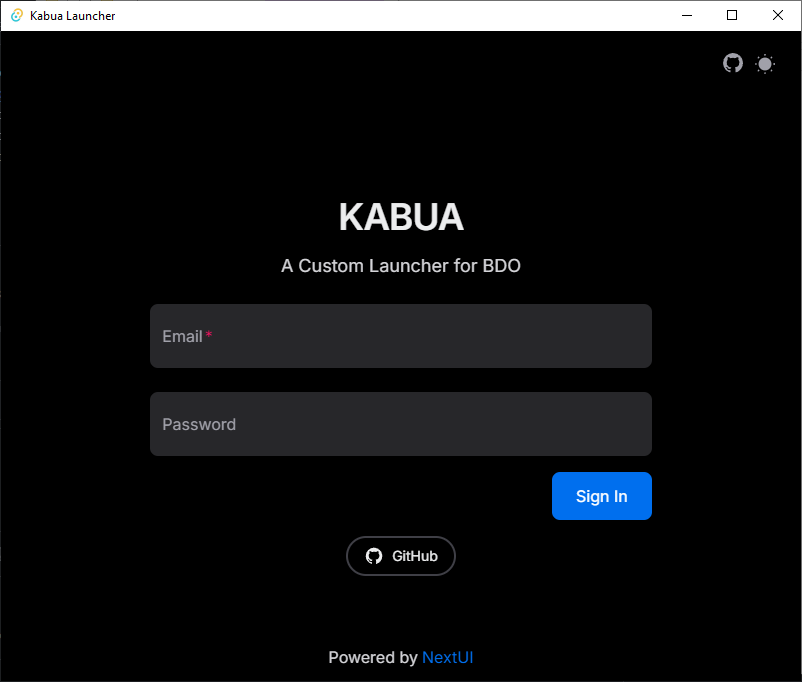
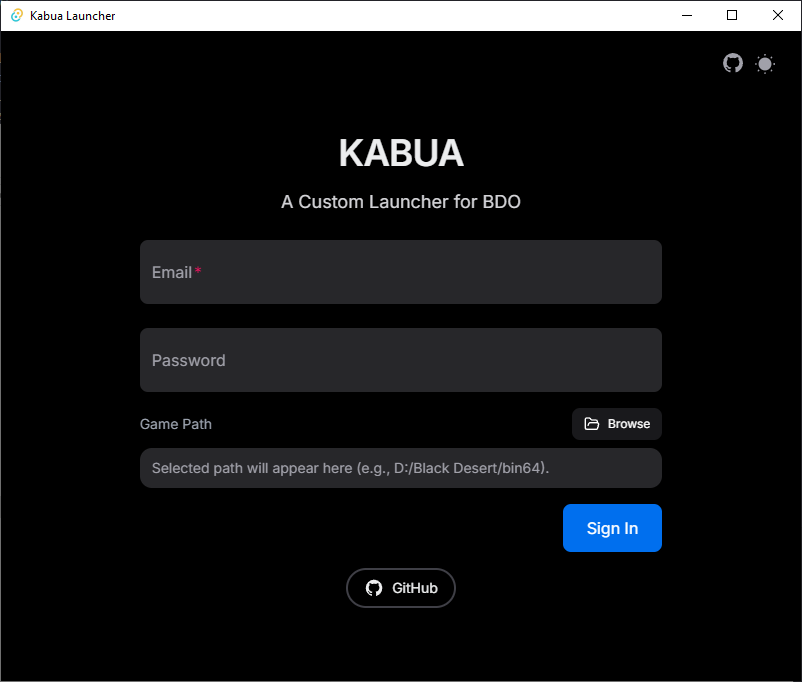
update layout and add game path browse

diff --git a/components/form.tsx b/components/form.tsx
@@ -2,6 +2,7 @@
 
 import { useState, useMemo } from "react";
 import { Button } from "@nextui-org/button";
+import { FolderOpen } from 'lucide-react'
 import {
   Modal,
   ModalBody,
@@ -60,6 +61,7 @@ export const LoginForm = () => {
   const [configExists, setConfigExists] = useState(false);
   const [loading, setLoading] = useState(false);
   const [errorMsg, setErrorMsg] = useState("");
+  const [gamePath, setGamePath] = useState("");
   const { isOpen, onOpen, onClose } = useDisclosure();
 
   const validateEmail = (value: string) =>
@@ -173,7 +175,6 @@ export const LoginForm = () => {
       const config_exists = await exists("config.json", {
         dir: BaseDirectory.Resource,
       });
-      console.log(config_exists)
       if (config_exists) {
         const game_config = await readTextFile("config.json", {
           dir: BaseDirectory.Resource,
@@ -183,19 +184,8 @@ export const LoginForm = () => {
         const game_path = js.game_path;
         console.log(game_config);
         return game_path;
-      } else {
-        const path = await open({ directory: true });
-        const game_config = {
-          game_path: path,
-        };
-        const write_config = await writeTextFile(
-          "config.json",
-          JSON.stringify(game_config, undefined, 4),
-          { dir: BaseDirectory.Resource }
-        );
-        return game_config.game_path;
-        // console.log(game_path)
       }
+      return null;
     } catch (error) {
       throw error;
     }
@@ -203,8 +193,12 @@ export const LoginForm = () => {
 
   const handleSubmit = async () => {
     try {
+      if (!gamePath) {
+        throw `File or path not found, try fixing your game path`;
+      }
       setLoading(true);
-      const game_path = await handleCheckConfig();
+      // const game_path = await handleCheckConfig();
+      // setGamePath(game_path);
       const get_token = (await createToken()) as GetTokenResponse;
       const return_url: string = get_token._returnUrl;
       const state: string = get_token._state;
@@ -233,13 +227,13 @@ export const LoginForm = () => {
       }
       const game_string = await handleGameStartValidation(token);
       const err = await invoke("execute_process", {
-        path: game_path,
+        path: gamePath,
         filename: "BlackDesert64.exe",
         args: game_string!,
         isAdmin: true,
       });
       setLoading(false);
-      // console.log(err)
+      console.log(err)
     } catch (error: any) {
       // -10002 tryagain
       // -30002 email otp
@@ -256,6 +250,19 @@ export const LoginForm = () => {
     }
   };
 
+  const handleSetGamePath = async () => {
+    const path = await open({ directory: true });
+    const game_config = {
+      game_path: path,
+    };
+    const write_config = await writeTextFile(
+      "config.json",
+      JSON.stringify(game_config, undefined, 4),
+      { dir: BaseDirectory.Resource }
+    );
+    setGamePath(path as string)
+  }
+
   return (
     <div className="flex w-full flex-col items-center justify-center flex-wrap md:flex-nowrap gap-4">
       <Modal isOpen={isOpen} onClose={onClose}>
@@ -270,7 +277,7 @@ export const LoginForm = () => {
             </Button>
           </ModalFooter>
         </ModalContent>
-      </Modal>
+      </Modal>      
       <div className="flex w-2/3 flex-col items-center justify-center flex-wrap md:flex-nowrap gap-4">
         <Input
           isDisabled={loading}
@@ -297,6 +304,31 @@ export const LoginForm = () => {
           onKeyDown={handleKeyDown}
         />
       </div>
+      <div className="flex w-2/3 flex-col items-left justify-left flex-wrap md:flex-nowrap gap-4">
+        <div className="space-y-2">
+          <div className="flex items-center justify-between">
+            <p className="text-sm text-gray-400">Game Path </p>
+            <Button 
+              size="sm" 
+              variant="flat" 
+              color="default"
+              startContent={<FolderOpen className="w-4 h-4" />}
+              onClick={handleSetGamePath}
+            >
+              Browse
+            </Button>
+          </div>
+
+          <Input
+            isReadOnly
+            placeholder="Selected path will appear here (e.g., D:/Black Desert/bin64)."
+            value={gamePath}
+            isRequired
+          >
+          </Input>
+        </div>
+      </div>
+
       <div className="flex w-2/3 flex-row-reverse items-right justify-right flex-wrap md:flex-nowrap gap-4">
         <Button
           isLoading={loading}

diff --git a/app/layout.tsx b/app/layout.tsx
@@ -44,20 +44,9 @@ export default function RootLayout({
         <Providers themeProps={{ attribute: "class", defaultTheme: "dark" }}>
           <div className="relative flex flex-col h-screen">
             <Navbar />
-            <main className="container mx-auto max-w-7xl pt-16 px-6 flex-grow">
+            <main className="container mx-auto max-w-7xl px-2 flex-grow">
               {children}
             </main>
-            <footer className="w-full flex items-center justify-center py-3">
-              <Link
-                isExternal
-                className="flex items-center gap-1 text-current"
-                href="https://nextui-docs-v2.vercel.app?utm_source=next-app-template"
-                title="nextui.org homepage"
-              >
-                <span className="text-default-600">Powered by</span>
-                <p className="text-primary">NextUI</p>
-              </Link>
-            </footer>
           </div>
         </Providers>
       </body>

diff --git a/src-tauri/src/method.rs b/src-tauri/src/method.rs
@@ -13,7 +13,7 @@ fn call_dynamic(
         Err(e) => Err(e),
     };
     if !check_file? {
-        return Err("File or path not found, try fixing your config.json".into());
+        return Err("File or path not found, try fixing your game path".into());
     }
     
     let output = Command::new("cmd")
@@ -26,24 +26,6 @@ fn call_dynamic(
         .arg(args)
         .output()?;
     return Ok(output.status.code().unwrap());
-    
-    /*
-        // unsafe {
-        //     let mut parent_path = std::env::current_exe().unwrap();
-        //     parent_path.pop();
-        //     let lib_path = format!("{}\\PAAssist.dll", parent_path.display());
-        //     let lib: libloading::Library = libloading::Library::new(lib_path)?;
-        //     let func: libloading::Symbol<unsafe extern "C" fn(*const i8, *const i8, *const i8, bool) -> i64> = lib.get(b"executeProcess\0")?;
-        //     let arg1 = CString::new(path)?;
-        //     let arg2 = CString::new(filename)?;
-        //     let arg3 = CString::new(args)?;
-        //     let flag = is_admin; // bool argument
-        //     Ok(func(arg1.as_ptr(), arg2.as_ptr(), arg3.as_ptr(), flag))
-        // }
-        // let output = Command::new(file_path)
-        //     .args([args])
-        //     .output()?;
-     */
 }
 
 pub async fn perform_authenticate_info(url: &str) -> Result<String, Box<dyn std::error::Error>> {
